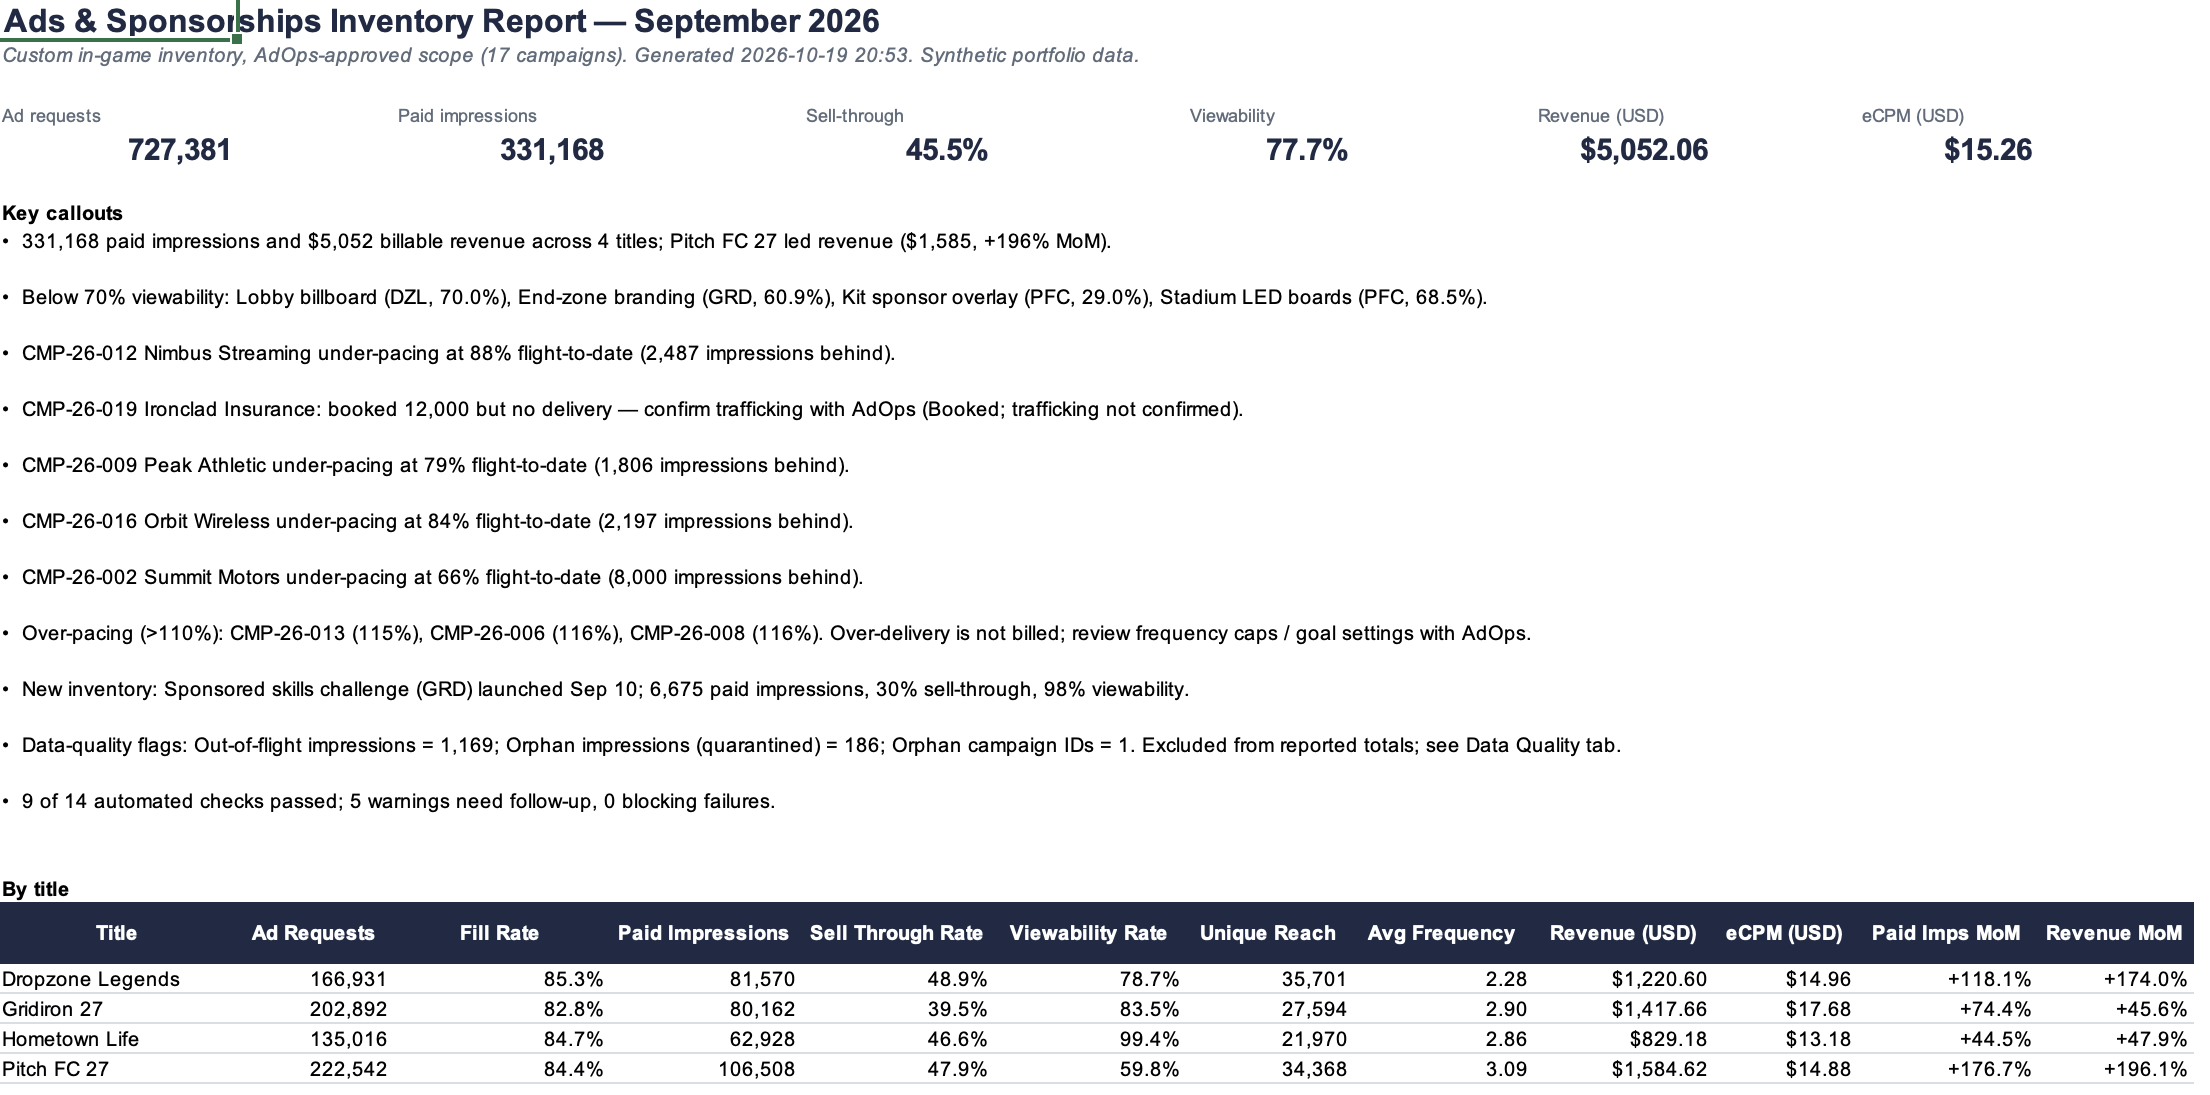
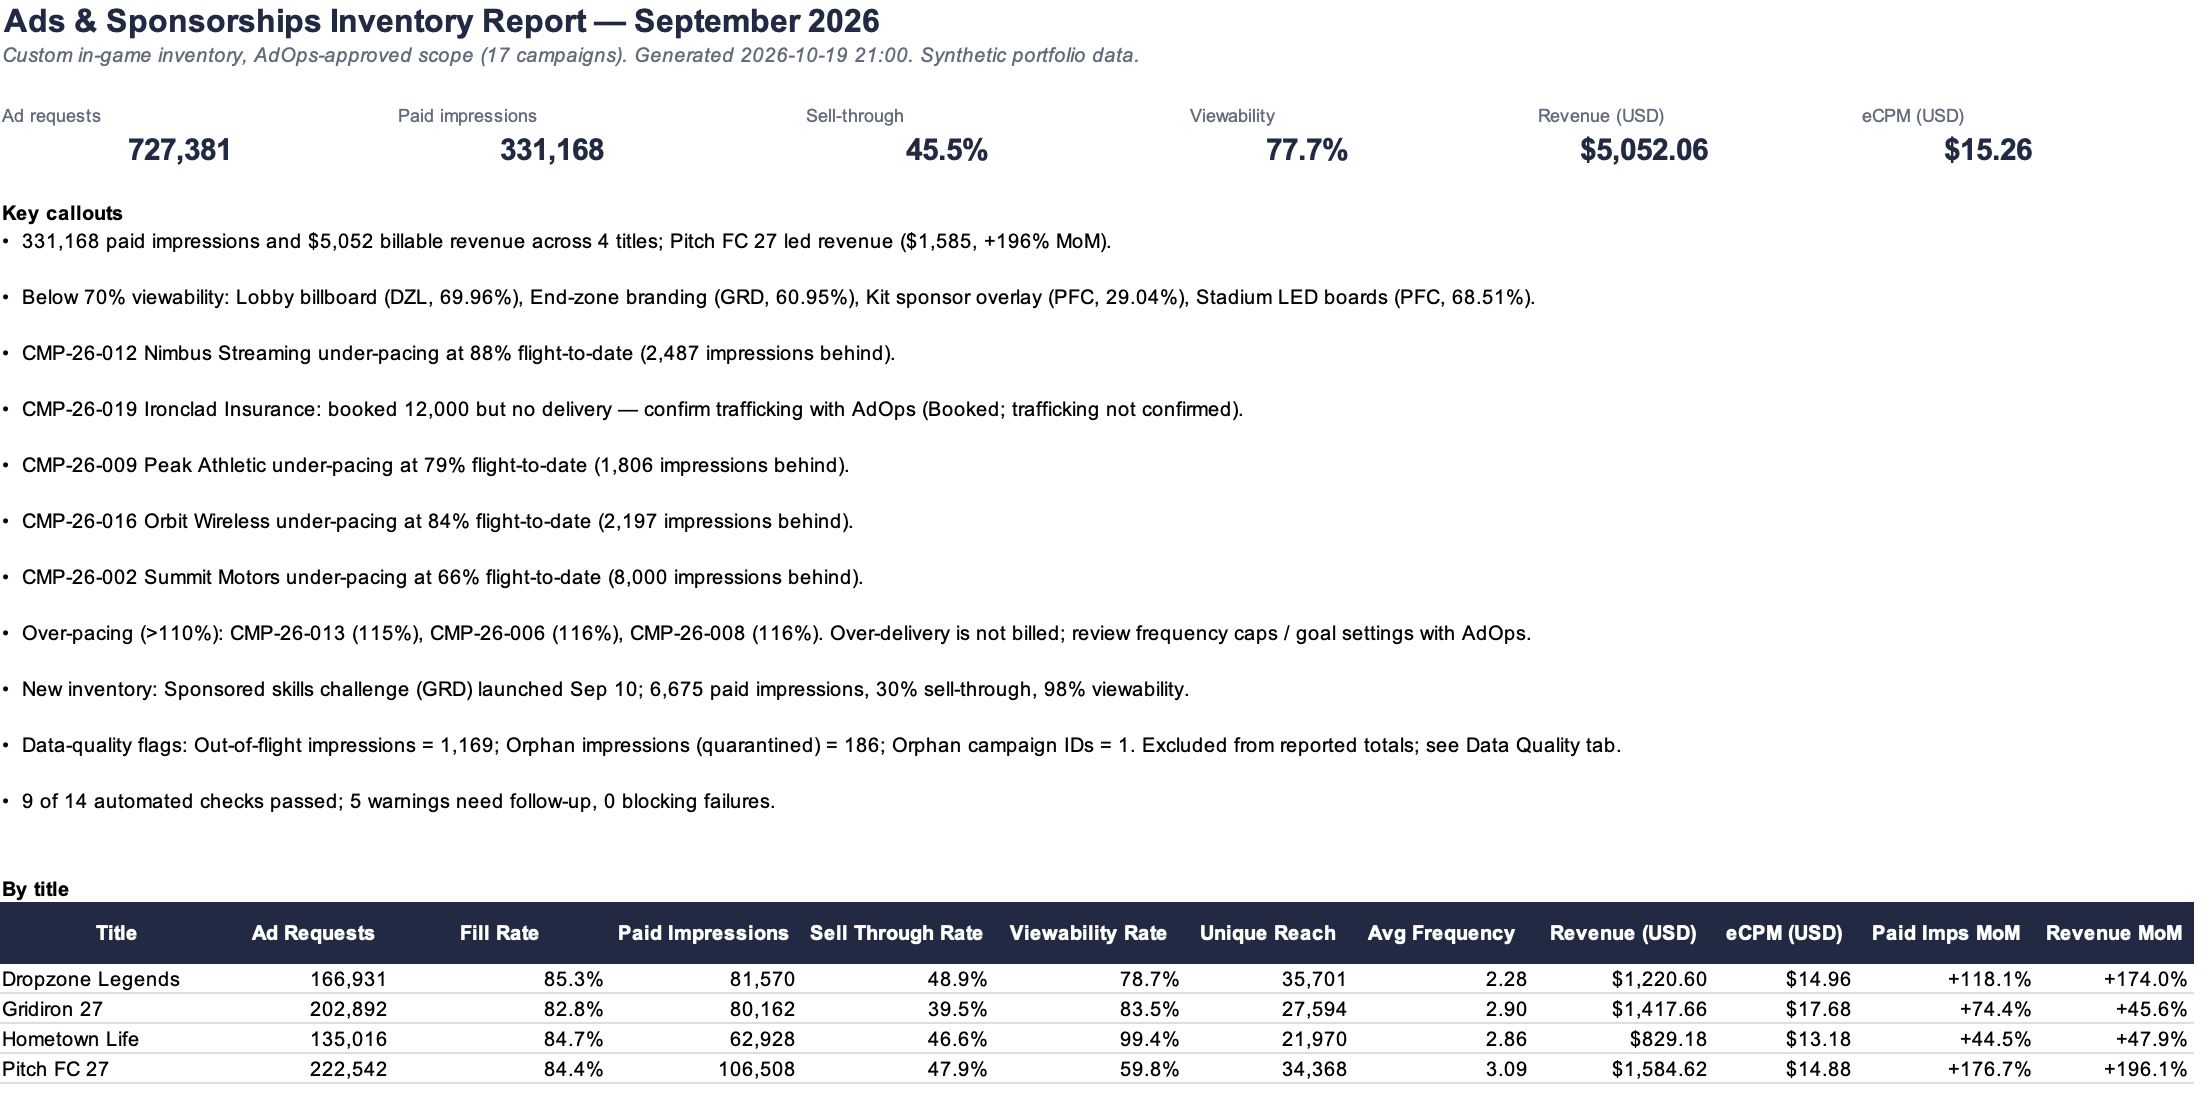
Add portfolio screenshots

diff --git a/src/export_portfolio_images.py b/src/export_portfolio_images.py
@@ -1,0 +1,95 @@
+"""Render clean portfolio images of the Campaign Detail and Data Quality tables.
+
+    python3 src/export_portfolio_images.py            # writes to portfolio/images/
+Requires a prior pipeline run (reads data/warehouse.duckdb).
+"""
+import json
+from pathlib import Path
+
+import duckdb
+import matplotlib
+matplotlib.use("Agg")
+import matplotlib.pyplot as plt
+
+ROOT = Path(__file__).resolve().parents[1]
+OUT = ROOT / "portfolio/images"
+NAVY, GRID, INK, SLATE = "#1F2A44", "#D9DDE3", "#18202B", "#5A6573"
+STATUS = {"ON PACE": "#D8EFDF", "UNDER-PACING": "#F8D7D7", "NO DELIVERY": "#F8D7D7",
+          "OVER-PACING": "#FCEBC8", "PASS": "#D8EFDF", "WARN": "#FCEBC8", "FAIL": "#F8D7D7"}
+
+
+def draw(rows, headers, aligns, title, subtitle, path, col_w, status_col=None, total_row=None):
+    n = len(rows) + (1 if total_row else 0)
+    fig_w, row_h = sum(col_w) + 0.4, 0.34
+    fig = plt.figure(figsize=(fig_w, row_h * (n + 1) + 1.0), dpi=200)
+    ax = fig.add_axes([0, 0, 1, 1]); ax.axis("off")
+    ax.set_xlim(0, fig_w); ax.set_ylim(0, row_h * (n + 1) + 1.0)
+    top = row_h * (n + 1) + 1.0
+    ax.text(0.2, top - 0.35, title, fontsize=15, weight="bold", color=NAVY, va="center")
+    ax.text(0.2, top - 0.68, subtitle, fontsize=9, style="italic", color=SLATE, va="center")
+    y = top - 1.0
+    ax.add_patch(plt.Rectangle((0.2, y - row_h), sum(col_w), row_h, color=NAVY))
+    xs = [0.2 + sum(col_w[:i]) for i in range(len(col_w))]
+    for x, w, h, a in zip(xs, col_w, headers, aligns):
+        ax.text(x + (w - 0.08 if a == "right" else 0.08), y - row_h / 2, h, ha=a, va="center",
+                fontsize=8.5, weight="bold", color="white")
+    all_rows = rows + ([total_row] if total_row else [])
+    for i, r in enumerate(all_rows):
+        yy = y - row_h * (i + 2)
+        bold = total_row is not None and i == len(rows)
+        if status_col is not None and r[status_col] in STATUS:
+            ax.add_patch(plt.Rectangle((xs[status_col], yy), col_w[status_col], row_h,
+                                       color=STATUS[r[status_col]]))
+        ax.plot([0.2, 0.2 + sum(col_w)], [yy, yy], color=INK if bold else GRID, lw=0.8 if bold else 0.6)
+        for x, w, v, a in zip(xs, col_w, r, aligns):
+            ax.text(x + (w - 0.08 if a == "right" else 0.08), yy + row_h / 2, v, ha=a, va="center",
+                    fontsize=8.5, color=INK, weight="bold" if bold else "normal")
+    fig.savefig(path, facecolor="white", bbox_inches="tight", pad_inches=0.15)
+    plt.close(fig)
+    print(f"wrote {path.relative_to(ROOT)}")
+
+
+def pct(v): return "-" if v is None else f"{v:.1%}"
+def num(v): return "-" if not v else f"{v:,.0f}"
+
+
+def main():
+    OUT.mkdir(parents=True, exist_ok=True)
+    con = duckdb.connect(str(ROOT / "data/warehouse.duckdb"), read_only=True)
+    month = con.execute("select strftime(month_start, '%B %Y') from params").fetchone()[0]
+
+    # Campaign Detail
+    df = con.execute("""
+        select campaign_id, advertiser, title_id, flight_start, flight_end, booked_impressions,
+               impressions, delivery_pct_month, pacing_pct_to_date, pacing_status,
+               viewability_rate, unique_reach, revenue_usd
+        from mart_campaign_monthly order by title_id, campaign_id""").fetchall()
+    rows = [[c, a, t, f"{fs:%b %d}", f"{fe:%b %d}", num(b), num(i), pct(d), pct(p), s, pct(v), num(u), f"${r:,.2f}"]
+            for c, a, t, fs, fe, b, i, d, p, s, v, u, r in df]
+    tot = [sum(x[k] or 0 for x in df) for k in (5, 6, 11, 12)]
+    total = ["Total", "", "", "", "", num(tot[0]), num(tot[1]), "", "", "", "", "", f"${tot[3]:,.2f}"]
+    draw(rows,
+         ["Campaign", "Advertiser", "Title", "Start", "End", "Booked", "Impressions", "Delivery %",
+          "Pacing %", "Pacing Status", "Viewability", "Unique Reach", "Revenue"],
+         ["left", "left", "left", "left", "left"] + ["right"] * 4 + ["left"] + ["right"] * 3,
+         f"Campaign Detail — {month}",
+         "In-scope campaigns. Pacing = flight-to-date delivery vs straight-line goal (90–110% tolerance).",
+         OUT / "03-campaign-detail.png",
+         [1.05, 1.55, 0.55, 0.65, 0.65, 0.85, 1.0, 0.9, 0.85, 1.2, 0.95, 1.05, 0.95],
+         status_col=9, total_row=total)
+
+    # Data Quality
+    month_key = con.execute("select strftime(month_start, '%Y-%m') from params").fetchone()[0]
+    tests = json.loads((ROOT / f"output/{month_key}/run_log.json").read_text())["tests"]
+    dq = con.execute("select check_name, value, note from mart_dq_summary").fetchall()
+    rows = [[n, f"{v:,.0f}", "", note] for n, v, note in dq]
+    rows += [["", "", "", ""]]
+    rows += [[t["test"], str(t["failing_rows"]), t["status"], t["description"]] for t in tests]
+    draw(rows, ["Check", "Rows", "Status", "Description"], ["left", "right", "left", "left"],
+         f"Data Quality & Automated Checks — {month}",
+         "Error-severity failures block publication; warnings are routed to AdOps / AdTech.",
+         OUT / "04-data-quality.png", [2.9, 0.9, 0.8, 6.6], status_col=2)
+
+
+if __name__ == "__main__":
+    main()
